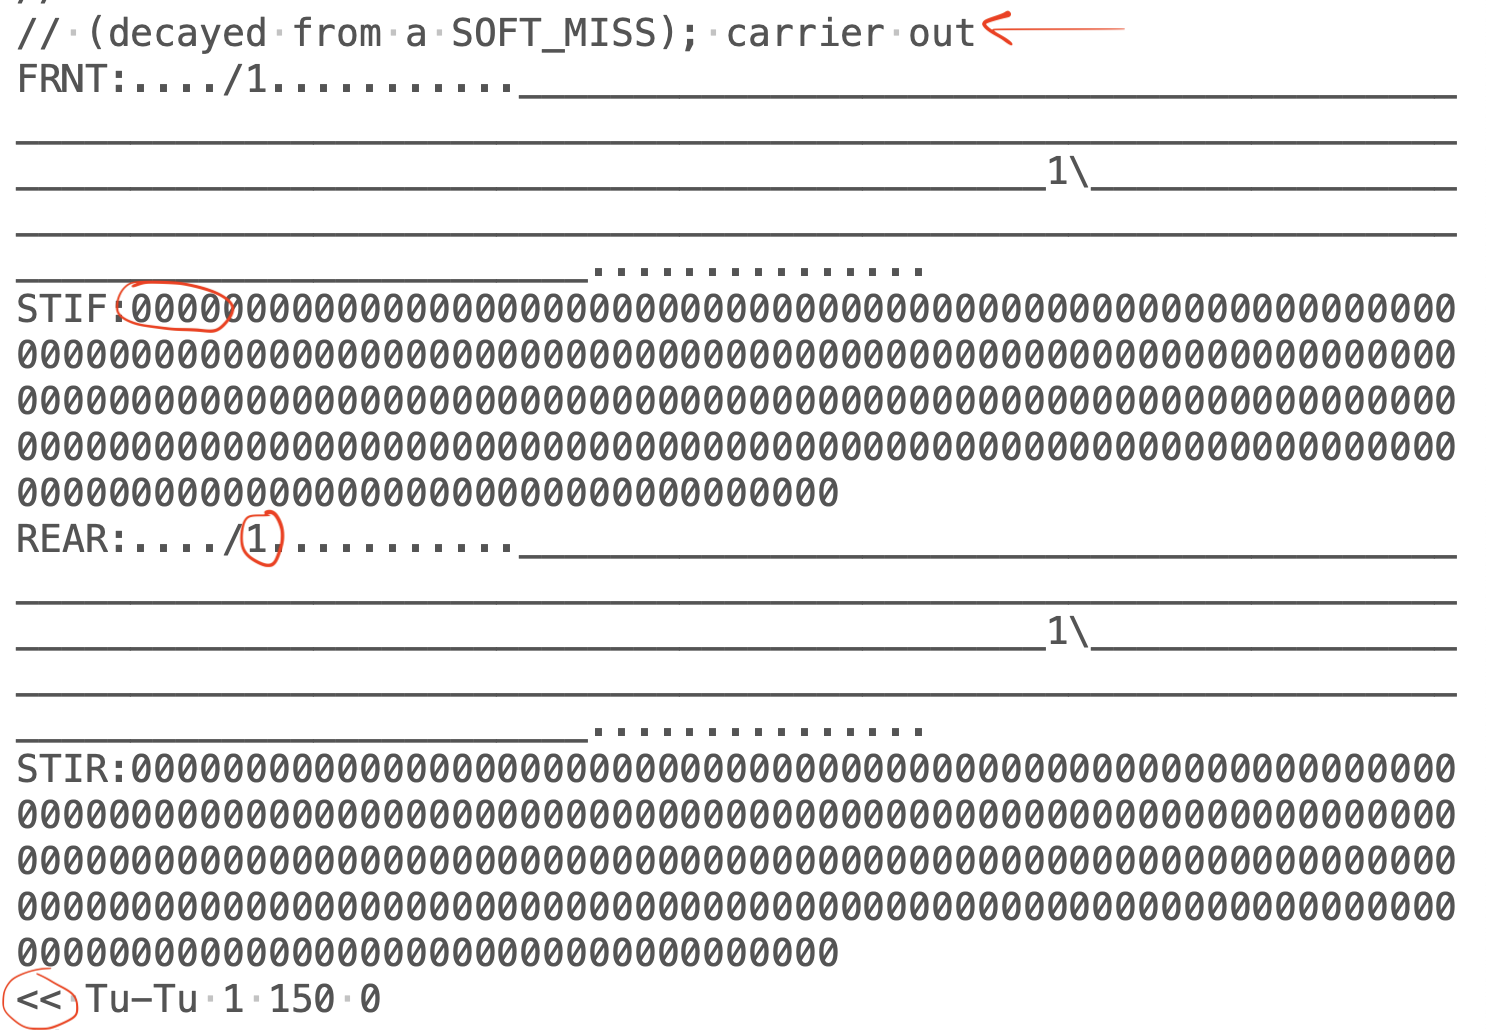
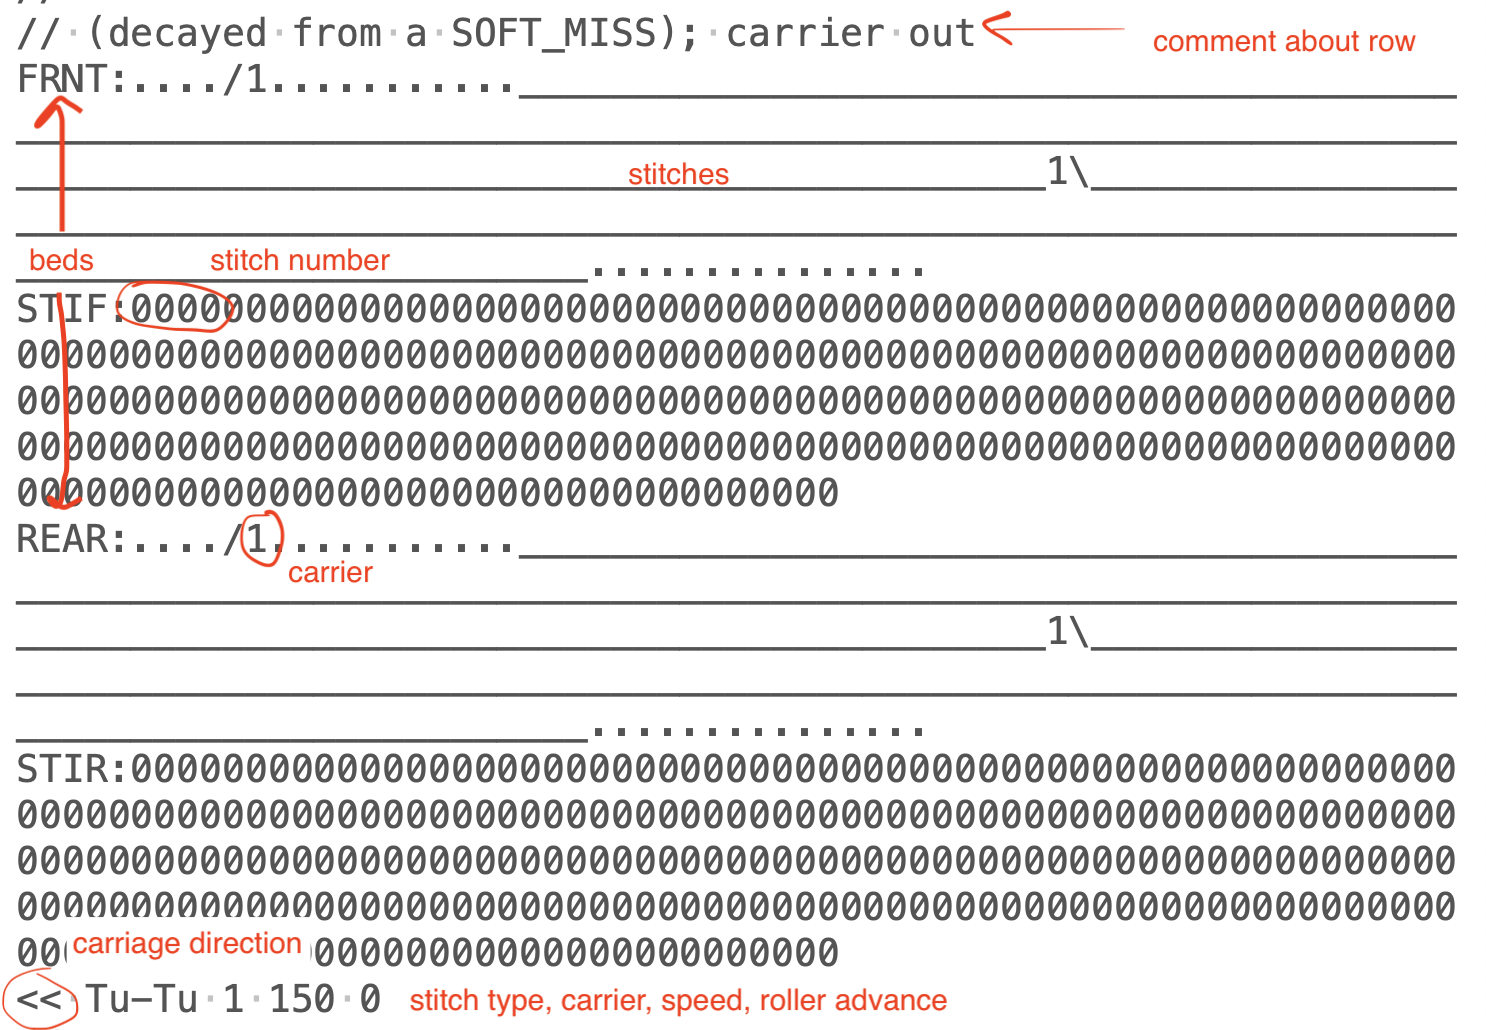
added post

diff --git a/_sass/layout.scss b/_sass/layout.scss
@@ -256,7 +256,6 @@ figure.fullwidth figcaption {
 figure .mainnote {
     flex-basis: 100%;
     display: block;
-    margin-top: 0.5rem;
 }
 
 /* Links: replicate underline that clears descenders */

diff --git a/_posts/2026-04-01-transfers.md b/_posts/2026-04-01-transfers.md
@@ -4,56 +4,66 @@ title:  "knitout and kniterate 3"
 author: agnes cameron
 date:  2026-04-01
 description: ribbers, tests, transfers, and casting off
-status: draft
-image: 
+status: published
+image: '/img/kniterate-3/comparison-caston.jpg'
 ---
 
-This week I learned 2-bed knitting on the domestic machine, and made some progress on the Knitout-> Kniterate code visualiser. We also managed to get a bunch of tests to run on the Kniterate, most of which worked fairly well. We also visited an exhibition of some work by visiting students from NAFA (National Academy of Fine Art Singapore), which featured a really great and inspiring bit of Kniterate work.
+This week I learned 2-bed knitting on the domestic machine, and made some progress on the Knitout-> Kniterate code visualiser. We also managed to get a bunch of tests to run on the Kniterate, most of which worked fairly well. We also visited an exhibition of some work by visiting students from NAFA (Nanyang Academy of Fine Art Singapore), which featured a really great and inspiring bit of Kniterate work.
 
 ### making friends with the ribber
 
 This past weekend, Rosie and I went to Knitworks to do a [workshop](https://knitworkslondon.com/products/advanced-ribbing-attachment) on the Brother ribber. Neither of us had worked with one before, and it was really useful for getting a material understanding of what's happening on a 2-bed machine.
 
-We practiced a cast-on, different ribs, and experimented with plating and racking (which might be a nice thing to re-create on the Kniterate). After the session, I went to my studio to set up the ribber that had come with my Brother machine, but that I'd not used before! It was pretty straightforward to set up: the hardest part was figuring out how to attach the brackets to the ribber as they'd been taken off. These are sprung, to allow the bed to latch up and down.
+<figure>
+    <img src="{{ '/img/kniterate-3/5-by-5-rib.jpg' | prepend: site.baseurl }}" alt="main"/>
+    <span class="mainnote">a plated 5x5 rib sample made on the Knitworks ribber. The ribbing pattern is made by transferring stitches between the front and back beds</span>
+</figure>
+
+<span class="marginnote">
+	<img src="/img/kniterate-3/ribber-studio.jpg">
+Setting the ribber up in my studio
+</span>
+
+We practiced a cast-on, different ribs, and experimented with plating and racking on the front bed (which might be a nice thing to re-create on the Kniterate). After the session, I went to my studio to set up the ribber that had come with my Brother machine, but that I'd not used before! It was pretty straightforward to set up: the hardest part was figuring out how to attach the [brackets](https://andeeknits.co.uk/media/catalog/product/cache/7c24d03cf47dc7112c16899914de80b2/b/r/brother_rise_and_fall_bracket_left.jpg) to the ribber as they'd been taken off. These are sprung, to allow the bed to latch up and down.
 
 ## kniterate testing
 
 ### testing the waste section
 
-The first thing we did at Chelsea was to test the waste section sample we'd generated before. All I needed to do was add a set of rows of front bed knitting. I decided to do this by using the waste generation file as intended -- I made a rectangle on the front bed, and then appended the waste section using a script.
+The first thing we did at Chelsea was to test the waste section sample we'd generated [last week](http://localhost:4000/2026/03/25/kniterate-waste-section.html). All I needed to do was add a set of rows of front bed knitting. I decided to do this by using the waste generation file as intended -- I made a rectangle on the front bed, and then appended the waste section using a script.
 
-This turned out this was easier said than done: the lines I'd added to the cast-on section messed up the carrier directions because I was bringing them in twice: once in the tucked section and once again in the kniterate-style introduction that happens further up. In the end I ended up adding a few extra rows to hack this together so we had something to test with, but I'll need to sort this out properly later on.
+This turned out to be easier said than done: the lines I'd added to the cast-on section messed up the carrier directions because I was bringing them in twice: once in the tucked section and once again in the kniterate-style introduction that I'd added. This meant that the carriers ended up on the 'wrong' side of the bed for the original code. In the end I ended up adding a few extra rows to hack this together so we had something to test with, but I'll need to sort this out properly later on.
+
+<figure style="max-width: 500px;">
+    <img src="{{ '/img/kniterate-3/comparison-caston.jpg' | prepend: site.baseurl }}" alt="main"/>
+    <span class="mainnote">comparing between a waste section from the kniterate editor (left) and the knitout code (right). Note the tucked draw thread and cast-on yarn at the bottom of the knitout-based sample</span>
+</figure>
 
 The tests went well: B was quite pleased with the double introduction as it means the yarns are brought in early on, getting around an issue with yarn height on their kniterate, and saves her from manually bringing the carriers in. It was really cool seeing our code turn from code into actual, knitted material -- and in seeing the correspondences between the knitout and kniterate-editor based cast-on.
 
-We encountered another issue, which is that bringing carriers 'out' from the right hand side means that they trail over the whole knit to move to the Home position. For now we just move the 'out' statement to the end (as they're not as important in kniterate anyway), but the other way around this would be to always ensure the drawthread ends up on the RHS (thinking about it, this is non-ideal as it fixes the cast-on direction of the input file... so we won't do that). 
-
-<span class="marginnote">
-B said that bringing carriers 'in' and 'out' was more of a Shima thing -- when they're not being knit they just sit there, they don't do that much.
-</span>
+We encountered another issue, which is that bringing carriers 'out' from the right hand side means that they trail over the whole knit to move to the Home position. For now we just move the 'out' statement to the end (as they're not as important in kniterate anyway<label for="carrier-out" class="margin-toggle sidenote-number"></label><input id="carrier-out" class="margin-toggle"/>),<span class="sidenote">B said that bringing carriers 'in' and 'out' was more of a Shima thing -- when they're not being knit they just sit there, they don't do that much.</span> but the other way around this would be to always ensure the drawthread ends up on the RHS (thinking about it, this is non-ideal as it fixes the cast-on direction of the input file... so we won't do that). 
 
 Once we'd got this working, we made a couple of test samples -- one with a 1x1 rib, one with a fisherman's rib (same as the waste section). Both of these knitted well, though they could have been a little tighter.
 
+<figure>
+    <div class="subfig">
+        <img src="{{ '/img/kniterate-3/cast-on.jpg' | prepend: site.baseurl }}"/>
+    </div>
+    <div class="subfig">
+        <img src="{{ '/img/kniterate-3/fishermans-rib.jpg' | prepend: site.baseurl }}"/>
+    </div>
+	<span class="mainnote">sample of 1x1 rib (right) and fisherman's rib (left)</span>
+</figure>
+
 ### casting off
 
-The next thing to test was casting off (after B spent about 20 minutes manually casting off the first sample). Initally, I got a castoff pattern 
+The next thing to test was casting off (after B spent about 20 minutes manually casting off the first sample). Initially, I used the [rectangle-bindoff](github.com/textiles-lab/knitout-examples/blob/master/rectangle-bindoff.js) code from  (in the US, 'casting off' = 'binding off') from the knitout examples repo, adapting it to the more recent version of the knitout-frontend javascript code as follows:
 
-Casting off (in US-based knitout 'binding off') 
+<span class="marginnote">
+	<img src="/img/kniterate-3/knitout-bindoff-1.png">
+what the first bindoff section looks like in the knitout visualiser. Note the 'held' stitches every other stitch on the back bed!
+</span>
 
-B remarked that this was 'very shima-y' (probably because we uncritically grabbed it from the )
-
-does any of Gabrielle's code have a kniterate bindoff?
-
-Adapted to match the one from the kniterate editor
-
-refactoring the code to work with the front end
-going through it line by line and trying to understand what's happening
-
-lots!!
-
-taking stuff out without breaking it
-main issue: having carriers on the right side
-change this to being a state variable
 
 ```
 k.xfer("f" + n, "b" + n);
@@ -69,13 +79,24 @@ if (n+2 <= max) {
 }
 k.rack(0.0);
 ```
+
+Translating to words, the order of operations here is:
+* transfer a stitch from the front bed to the back bed (the previous row will all have been knitted on the front bed, leaving the back bed free)
+* rack 1 needle position over, bringing the stitch that was transferred to face the next needle along (which will still have a stitch)
+* transfer that first stitch from the back bed to the front bed (on top of an existing stitch)
+* every odd-numbered stitch, perform a [tuck stitch](https://knit.work/tuck/) on the back bed (this will take a loop of yarn from the carrier and hold it in place on the back bed). This is effectively holding the carrier yarn in place.
+* knit the stitch that's held on the front bed
+* for all except the last 3 stitches, drop the knitted stitch off the front bed
+* rack back to 0, and continue
+
+This does something a bit different to the typical knitout bindoff, which doesn't do this step of holding every other stitch on the back bed. B remarked that this method was 'very shima-y' (probably because it's taken from the regular knitout examples), and the end result was somewhat distorted.
+
 <figure>
-    <img src="{{ '/img/kniterate-code/correspondence.png' | prepend: site.baseurl }}" alt="main"/>
-    <span class="mainnote">The end result file, plus details of where we think it corresponds to the visualisation in the knitout editor. Without being able to go from .kc -> .k or from .kc -> Kniterate Editor, we won't know how correct this is until we try it on the machine!</span>
+    <img src="{{ '/img/kniterate-3/original-bindoff.jpg' | prepend: site.baseurl }}" alt="main"/>
+    <span class="mainnote">the bindoff test sample knit using the original code -- note how the shima-style holds leave some loose stitches on the edge</span>
 </figure>
 
-
-updated code to match kniterate editor
+The next step was to update the code to match kniterate editor, removing the every-other-needle transfers to the back bed. We ran out of time to test this, but the hope is this should work similarly to the version in the kniterate editor:
 
 ```
 k.xfer("f" + n, "b" + n);  // front to rear transfer
@@ -86,65 +107,103 @@ k.knit("+", "f" + (n+1), Carrier);
 k.rack(0.0);
 ```
 
-<figure>
+This does a simpler operation than the first one described above, missing the tuck steps, but also leaving the 'miss' steps till the very end, holding the knit stitches in place on the needles (instead of holding them in place using the tucked stitches on the back bed).
+
+* transfer a stitch from the front bed to the back bed
+* rack 1 needle position over
+* transfer that first stitch from the back bed to the front bed
+* knit the stitch that's held on the front bed
+* rack back to 0, and continue
+
+<figure style="max-width: 550px;">
     <div class="subfig">
         <img src="{{ '/img/kniterate-3/kniterate-bindoff.png' | prepend: site.baseurl }}"/>
     </div>
     <div class="subfig">
         <img src="{{ '/img/kniterate-3/knitout-bindoff-2.png' | prepend: site.baseurl }}"/>
     </div><br>
-    <span class="mainnote">the kniterate editor bindoff, compared to the equivalent in knitout</span>
+    <span class="mainnote">The kniterate editor bindoff, compared to the equivalent in knitout. Note that compared to the image above, no tucked stitches are held at the back.</span>
 </figure>
 
-she does this here
-https://github.com/gabrielle-ohlson/knitout-kniterate-3D/blob/c65ca94077a890da58b95498d2742eedf12e381a/knitout_kniterate_3D/knit3D.py#L2116
-
+In validating this approach, I also looked to see if there were any kniterate-specific knitout examples. I wasn't able to find a JS-based bindoff in Gabrielle's code, but there is a Python equivalent in her [knit3D](https://github.com/gabrielle-ohlson/knitout-kniterate-3D/blob/c65ca94077a890da58b95498d2742eedf12e381a/knitout_kniterate_3D/knit3D.py#L2116) repository, where 'x' represents the number of the needle:
 
 ```
-	k.xfer(f'b{x}', f'f{x}')
-	k.rack(1)
-	k.xfer(f'f{x}', f'b{x-1}')
-	k.rack(0)
-	[...]
-	k.knit('-', f'b{x-1}', c)
+k.xfer(f'b{x}', f'f{x}')
+k.rack(1)
+k.xfer(f'f{x}', f'b{x-1}')
+k.rack(0)
+[...]
+k.knit('-', f'b{x-1}', c)
 ```
+The ... part is this, which handles roller positions. It's unclear whether this is necessary for a straight bindoff -- potentially this is necessary as when dealing with 3D shapes, it might need to be extra careful with the positioning of the sample on the bed.
 
-the ... part
 ```
 if x != xferNeedle+count-1:
-	if not asDecMethod and (xferNeedle+count) - x == 30: k.rollerAdvance(0)
-	elif x < xferNeedle+count-4 and (asDecMethod or (xferNeedle+count) - x < 30): k.addRollerAdvance(-50)
-	k.drop(f'b{x+1}')
-if not asDecMethod and (xferNeedle+count) - x >= 30: k.addRollerAdvance(50)
+  if not asDecMethod and (xferNeedle+count) - x == 30: 
+    k.rollerAdvance(0)
+  elif x < xferNeedle+count-4 
+  and (asDecMethod or (xferNeedle+count) - x < 30): 
+    k.addRollerAdvance(-50)
+    k.drop(f'b{x+1}')
+if not asDecMethod and (xferNeedle+count) - x >= 30: 
+  k.addRollerAdvance(50)
 ```
+
+### kniterate issues
+
+We encountered a recurrent issue where the Kniterate moves the yarn carrier before the carriage starts to move, resulting on stitches being dropped on the right hand side of the bed. B mentioned that this was also an issue that also occurred in kniterate-editor generated files, but was seeming to occur more often in ours.
+
+She said that this only ever happened with carriers on the right-hand-side of the code, and also happened most frequently just after the main yarn was cast on (e.g. after the row of both beds knitting at the start of a sample).
+
+I started to look into this by making close comparisons of the .kcode files generated by the kniterate editor and [knitout-to-kcode](https://github.com/textiles-lab/knitout-backend-kniterate/blob/master/knitout-to-kcode.js) conversion script respectively. This yielded *some* differences, but will need a lot more time with the converter (and ideally to see how the Kniterate editor does it) to get to the bottom of if, how and why there's a bug there.
+
+In trying to understand this, I also made an annotated guide to a .kcode 'row':
+
+<figure>
+    <img src="{{ '/img/kniterate-3/kcode-closeup-2.png' | prepend: site.baseurl }}" alt="main"/>
+    <span class="mainnote">the 'row' consists of information about the front bed (carrier position and stitches, then stitch tensions), followd by the back bed, followed by a general metadata section (stitch type, carrier, speed etc)</span>
+</figure>
+
 
 ## knitout -> kniterate editor
 
+To make the JS knitout library usable to our students, I'm updating the visualiser to include a bunch more kniterate-specific functions, including kcode export and automatic waste section generation.
+
 ### updating the interface
 
-first thing to do was add kcode export button. this was pretty straightforward, just used gabrielle's code.
+<span class="marginnote">
+	<img src="/img/kniterate-3/new-visualiser.png">
+the adapted visualiser, featuring <i>functional</i> KCode export button and <i>buggy</i> waste yarn addition checkbox
+</span>
+
+The first thing to do was add kcode export button to the visualiser. This was pretty straightforward, I just used Gabrielle's code, which had already been integrated into a web interface, just a different one. This sped things up a lot once we had knitout code that looked good.
 
 ### auto exporting the waste section
 
-This requires a more in-depth refactor, partly also to overcome some of the issues we ran into 
+This requires a more in-depth refactor, partly also to overcome some of the issues we ran into with carrier positioning during the initial waste section tests. My plan is to write a state object (similar to the one used in the knitout-to-kcode file) that tracks the carrier positions and decides the direction of each row based on this.
 
-### understanding kcode
-
-first thing to do was add kcode export button. this was pretty straightforward, just used gabrielle's code.
+It's possible that it might be nice to have this as a callable function where the min and max width, height etc are rendered as arguments (rather than just automatically adding as present), but not sure how that would integrate into the main code parsing.
 
 ### ideas for helper functions
 
-Kniterate's "do my transfers" function is really good and helpful. It's also quite complicated but I wonder if there's a nice higher level js function that can handle simple cases -- e.g. manage transfers between 2 rows.
+Kniterate's "do my transfers" function is really good and helpful. The way it works is that an area of knit where transfers from the front to back *should* happen, and then apply it as a layer, when they get scheduled correctly.
 
-
+I wonder if there's a nice higher level js function that can handle simple cases -- e.g. manage transfers between 2 rows that looks at what needs to move from the back bed to the front bed. Some of this seems to happen already: adjacent transfers seem to get split over 2 rows without me needing to do anything. I suppose this gets in to needing a greater understanding of how knitout is generated from js ([this file](https://github.com/textiles-lab/knitout-frontend-js/blob/master/knitout.js)) to understand whether I'd be breaking some kind of parsing law.
 
 ## NAFA Kniterate Sample
 
-In the Triangle Space at Chelsea
+In the Triangle Space at Chelsea, there was an exhibition of a bunch of work made by some exchange students from the Nanyang Academy of Fine Art Singapore with different Chelsea programs, including one group with BA Textile design.
 
-This made me think about using elastic to do shaping in the 
-Papers 
+There was a big variety of work, including some really cool samples inspired by images of the sky from the student Chua Yi Jie. The sample was a Double Bed Jacquard, where one yarn was spandex, causing a really interesting bunching form on the right side of the fabric.
+
+<figure>
+    <img src="{{ '/img/kniterate-3/chua-yi-jie-jolene.png' | prepend: site.baseurl }}" alt="main"/>
+    <span class="mainnote">Chua Yi Jie's sample, with the elastic yarn in light blue</span>
+</figure>
+
+This made me think about using elastic to do shaping in knits more generally, potentially producing some really interesting geometries. It might be a nice way to explore 3D knits around the limitations of the kniterate, though I'd imagine it might also make things a lot less predictable.
 
 ### next steps
 
-Double bed jacquard.
+* I'd really like to learn more about jacquard, as it's a technique I've never used on either the kniterate or on a ribber.
+* Understanding the kcode file format in order to get to the bottom of the carriage errors and understand where they're being introduced (and whether that happens in hardware or software).

diff --git a/_posts/2026-04-10-understanding-kcode.md b/_posts/2026-04-10-understanding-kcode.md
@@ -1,0 +1,11 @@
+---
+layout: post
+title:  "knitout and kniterate 4"
+author: agnes cameron
+date:  2026-04-10
+description: getting deep into some weird bugs
+status: draft
+image: 
+---
+
+In my last post it seemed like it was going to be worth going deeper into kcode to diagnose some of the weirder kniterate errors. Without access to the 
